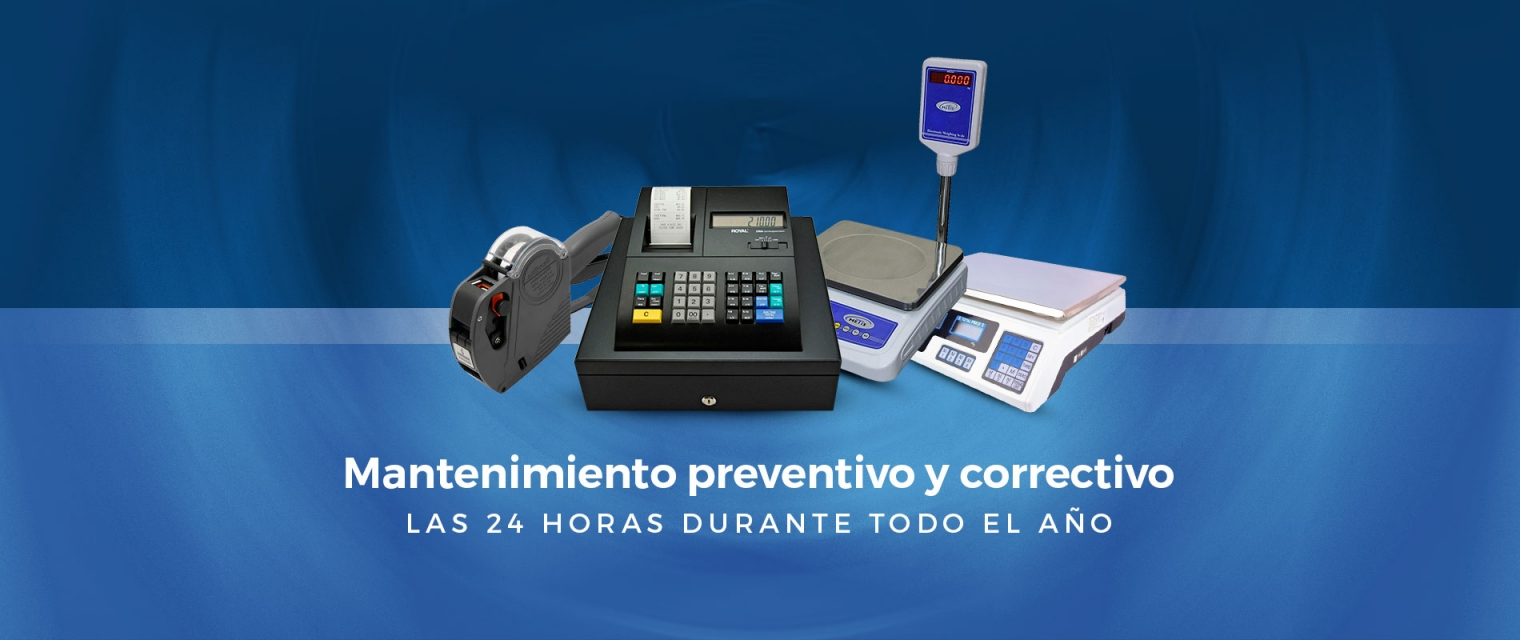
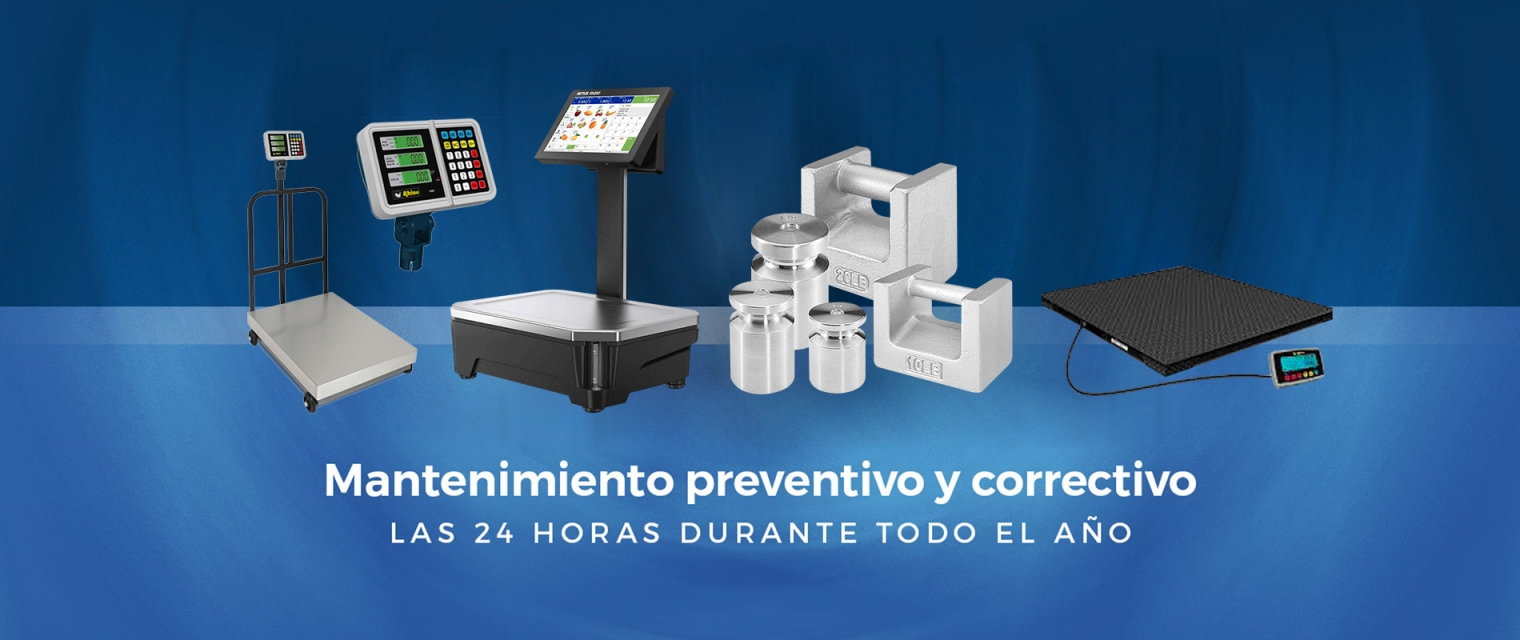
Swap in authentic team and product imagery
- Team: use real SIPCONS group photo (DSC017601) in Liderazgo section
- Carousel slide 2: replace stock model with real SIPCONS employee photo
- Carousel slide 3: use the SIPCONS-branded maintenance composite (SLIDE-JPEG)
- Carousel slide 4: replace hand-built HTML compose with the finished
  FreshBase AI marketing slide, and drop the now-unused .carousel-compose CSS

Changed region(s): [[0.1546, 0.0938, 0.9276, 0.6875], [0.2164, 0.7188, 0.8039, 0.875], [0.0618, 0.4688, 0.0928, 0.5]]

diff --git a/assets/css/site.css b/assets/css/site.css
@@ -177,19 +177,6 @@ ul{margin:0;}
 .carousel-slide{position:absolute;inset:0;opacity:0;visibility:hidden;transition:opacity .7s ease;}
 .carousel-slide.is-active{opacity:1;visibility:visible;}
 .carousel-slide img{width:100%;height:100%;object-fit:cover;display:block;}
-.carousel-compose{display:flex;width:100%;height:100%;background:var(--gradient-hero);}
-.carousel-compose .cc-media{flex:1 1 55%;display:grid;place-items:center;background:#fff;padding:var(--space-6);}
-.carousel-compose .cc-media img{max-width:92%;max-height:92%;width:auto;height:auto;object-fit:contain;}
-.carousel-compose .cc-text{flex:1 1 45%;display:flex;flex-direction:column;justify-content:center;padding:var(--space-8);color:#fff;}
-.carousel-compose .cc-text .overline{color:var(--sip-cyan-400);}
-.carousel-compose .cc-text h3{font-family:var(--font-display);font-weight:700;font-size:var(--text-3xl);max-width:16ch;margin-top:var(--space-2);}
-.carousel-compose .cc-text p{margin-top:var(--space-3);color:rgba(255,255,255,.82);font-size:var(--text-base);max-width:34ch;}
-@media (max-width:768px){
-  .carousel-compose{flex-direction:column;}
-  .carousel-compose .cc-media{padding:var(--space-3);}
-  .carousel-compose .cc-text{padding:var(--space-4) var(--space-6);}
-  .carousel-compose .cc-text h3{font-size:var(--text-xl);}
-}
 .carousel-arrow{position:absolute;top:50%;translate:0 -50%;width:44px;height:44px;border-radius:50%;border:1px solid rgba(255,255,255,.4);background:rgba(14,27,61,.45);color:#fff;font-size:1.4rem;line-height:1;display:grid;place-items:center;cursor:pointer;backdrop-filter:blur(4px);transition:background .2s ease;}
 .carousel-arrow:hover{background:rgba(14,27,61,.7);}
 .carousel-arrow.prev{left:var(--space-4);}

diff --git a/index.html b/index.html
@@ -56,16 +56,7 @@
       <div class="carousel-slide is-active"><img src="./assets/img/hero-slide-1.jpg" alt="Con SIPCONS obtén peso y precio exacto con los equipos punto de venta" loading="eager"></div>
       <div class="carousel-slide"><img src="./assets/img/hero-slide-2.jpg" alt="Después de la venta, el servicio es lo que cuenta" loading="lazy"></div>
       <div class="carousel-slide"><img src="./assets/img/hero-slide-3.jpg" alt="Mantenimiento preventivo y correctivo las 24 horas durante todo el año" loading="lazy"></div>
-      <div class="carousel-slide">
-        <div class="carousel-compose">
-          <div class="cc-media"><img src="./assets/img/hero-slide-4.jpg" alt="Báscula Fresh Base Plus de Mettler-Toledo con inteligencia artificial reconociendo fruta" loading="lazy"></div>
-          <div class="cc-text">
-            <span class="overline">Innovación Mettler-Toledo</span>
-            <h3>Reconocimiento de productos con Inteligencia Artificial</h3>
-            <p>Fresh Base Plus identifica frutas y verduras automáticamente en el mostrador, sin capacitación extensa de personal.</p>
-          </div>
-        </div>
-      </div>
+      <div class="carousel-slide"><img src="./assets/img/hero-slide-4.png" alt="Descubre la báscula FreshBase con inteligencia artificial: reconoce productos automáticamente, agiliza el etiquetado y mejora la experiencia de compra" loading="lazy"></div>
       <button class="carousel-arrow prev" aria-label="Diapositiva anterior">‹</button>
       <button class="carousel-arrow next" aria-label="Siguiente diapositiva">›</button>
     </div>
